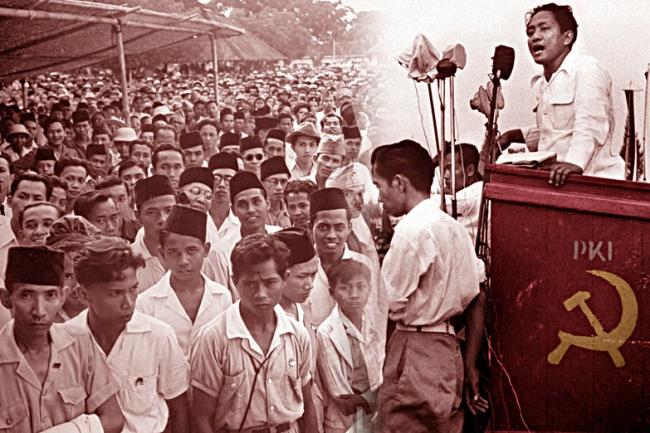
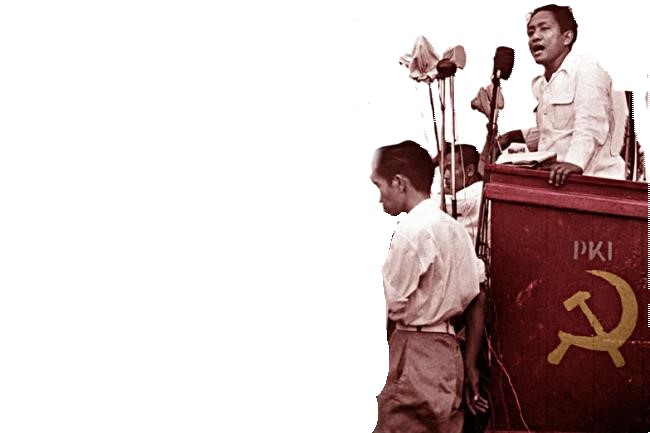
Replaced BG

diff --git a/css/namari-color.css b/css/namari-color.css
@@ -124,7 +124,7 @@ a:hover, #header.nav-solid nav a:hover {
 /* Banner Background and Text Colors */
 
 #banner {
-    background: url("../images/banner-images/banner-image-1.jpg") no-repeat center top;
+    background: url("../img/PKI-IMG.jpg") no-repeat center top;
     background-size:cover;
 }
 
